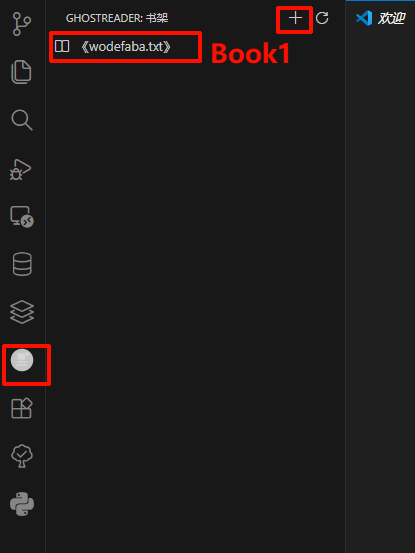
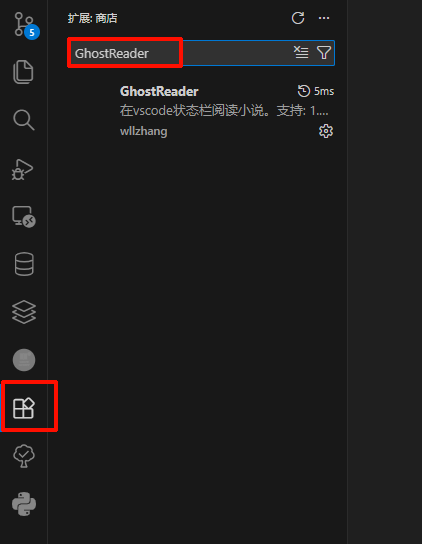
fixed png

diff --git a/README.md b/README.md
@@ -17,185 +17,50 @@
 - 📚 **书架管理** - 轻松导入、删除和管理你的书籍
 - 🔄 **模式切换** - Reading/Coding 模式随时切换，避免快捷键冲突
 - 💾 **进度保存** - 自动保存阅读进度，下次打开继续阅读
-- ⏭ **快速跳转** - 跳转到指定页码继续阅读
 - 🎨 **优雅设计** - 简洁的界面，不打扰你的工作流
-- ⚙ **自定义配置** - 可配置显示行数和自动停止时间
-- ⏰ **自动停止** - 支持设置无操作后自动隐藏阅读内容
 
-## 📦 安装
+## 📦 快速开始
 
-### 从 VSCode 市场安装
+### 安装
 
 1. 打开 VSCode
-2. 按 `Ctrl+P` / `Cmd+P`
-3. 输入 `ext install wllzhang.GhostReader`
-4. 或在扩展面板搜索 "GhostReader"
+2. 按 `Ctrl+P` / `Cmd+P`，输入 `ext install wllzhang.GhostReader`
+3. 或在扩展面板搜索 "GhostReader"
 
-### 从 VSIX 安装
+### 使用
 
-```bash
-code --install-extension GhostReader-2.0.0.vsix
-```
+1. 点击侧边栏的 Ghost READER 图标
+2. 点击 `+` 按钮导入 txt 书籍
+3. 点击书籍开始阅读
+4. 使用 `Ctrl+Left/Right` 翻页（Mac: `Cmd+Left/Right`）
 
-## 🚀 使用指南
+> **注意**: 需要先切换到 **Reading mode** 才能使用快捷键！
 
-### 1. 导入书籍
+## 📚 完整文档
 
-1. 安装成功后，侧边栏会显示插件图标, 点击 `+` 按钮导入 txt 书籍, 点击书架中的书籍开始阅读：
+- 📖 [使用指南](https://wllzhang.github.io/GhostReader/)
+- 🔧 [配置选项](https://wllzhang.github.io/GhostReader/docs/guide/usage)
+- 💻 [API 文档](https://wllzhang.github.io/GhostReader/docs/api)
 
-![Install](./docs/static/install.png)
-
-### 2. 快捷键
-
-| 操作   | Windows      | Mac         |
-| ------ | ------------ | ----------- |
-| 上一页 | `Ctrl+Left`  | `Cmd+Left`  |
-| 下一页 | `Ctrl+Right` | `Cmd+Right` |
-
-**注意**: 需要先切换到 **Reading mode** 才能使用快捷键！
-
-![Install](./docs/static/quickkey.png)
-
-### 3. 状态栏
-
-状态栏有两个模式按钮：
-
-- **📖 Reading mode** - 启用阅读快捷键
-- **💻 Coding mode** - 禁用阅读快捷键（默认）
-
-![Install](./docs/static/status.png)
-
-停止阅读后会自动切换回 `Coding` 模式，避免影响编码工作。
-
-## 🎯 功能说明
-
-- **导入书籍**: 点击侧边栏的 `+` 按钮
-- **删除书籍**: 在书架中右键点击书籍
-- **刷新书架**: 点击刷新按钮同步书籍列表
-- **跳转页码**: 点击状态栏的跳转按钮
-- **开始/停止**: 使用状态栏的播放/停止按钮
-
-## ⚙ 配置选项
-
-GhostReader 支持以下配置项（在 VSCode 设置中搜索 "GhostReader"）：
-
-![Install](./docs/static/args.png)
-
-### 显示行数 (`ghostReader.displayLines`)
-
-设置每次在状态栏显示的行数。
-
-- **默认值**: 1
-- **取值范围**: 1-10
-- **使用场景**: 如果希望一次看到更多内容，可以增加这个值
-
-### 自动停止延迟 (`ghostReader.autoStopDelay`)
-
-设置停留在当前行多少秒后自动停止阅读。
-
-- **默认值**: 0（永不自动停止）
-- **取值范围**: 0 或任意正数（单位：秒）
-- **使用场景**: 设置为 30 表示 30 秒内无操作则自动隐藏阅读内容
-
-**配置示例**:
-
-```json
-{
-  "ghostReader.displayLines": 3,
-  "ghostReader.autoStopDelay": 30
-}
-```
-
-## 📝 支持格式
-
-目前仅支持 `.txt` 格式的文本文件。
-
-建议使用 UTF-8 编码的 txt 文件以获得最佳体验。
-
-## 🛠 开发指南
-
-### 环境要求
-
-- Node.js >= 20.x
-- VSCode >= 1.95.0
-
-### 本地开发
+## 🛠 开发
 
 ```bash
-# 克隆仓库
-git clone https://github.com/wllzhang/GhostReader.git
-cd GhostReader
-
 # 安装依赖
 npm install
 
-# 编译
-npm run compile
-
-# 监听模式
+# 开发模式
 npm run watch
 
-# 构建生产版本
+# 构建
 npm run build
-```
 
-### 调试
-
-1. 按 `F5` 启动调试
-2. 在新窗口测试扩展功能
-3. 使用 `Developer: Reload Window` 重载
-
-### 代码规范
-
-```bash
-# 格式化代码
-npm run format
-
-# 运行 linter
-npm run lint
-
-# 类型检查
-npm run compile
-```
-
-### 打包发布
-
-```bash
-# 打包 VSIX
+# 打包
 npm run package
-
-# 发布到市场
-npm run publish
 ```
-
-## 🏗 技术栈
-
-- **开发语言**: TypeScript 5.7
-- **构建工具**: esbuild
-- **代码规范**: ESLint + Prettier
-- **VSCode API**: ^1.95.0
 
 ## 📄 许可证
 
 [MIT License](LICENSE)
-
-## 🤝 贡献
-
-欢迎贡献代码、报告问题或提出建议！
-
-1. Fork 本仓库
-2. 创建特性分支 (`git checkout -b feature/AmazingFeature`)
-3. 提交更改 (`git commit -m 'Add some AmazingFeature'`)
-4. 推送到分支 (`git push origin feature/AmazingFeature`)
-5. 开启 Pull Request
-
-## 💡 灵感来源
-
-灵感来自工作中偶尔的MO时光 😄
-
-## 🙏 致谢
-
-感谢所有贡献者和使用者的支持！
 
 ---
 
@@ -203,6 +68,6 @@ npm run publish
 
 如果这个项目对你有帮助，请给个 ⭐ Star 支持一下！
 
-[报告问题](https://github.com/wllzhang/GhostReader/issues) · [功能建议](https://github.com/wllzhang/GhostReader/issues)
+[报告问题](https://github.com/wllzhang/GhostReader/issues) · [功能建议](https://github.com/wllzhang/GhostReader/issues) · [完整文档](https://wllzhang.github.io/GhostReader/)
 
 </div>

diff --git a/docs/docs/guide/usage.md b/docs/docs/guide/usage.md
@@ -10,6 +10,8 @@ sidebar_position: 2
 2. 点击书架标题栏的 "+" 按钮
 3. 选择要导入的 TXT 文件
 
+![主界面](/main.png)
+
 ## 开始阅读
 
 点击书架中的书籍即可开始阅读，内容会显示在状态栏中。
@@ -22,9 +24,9 @@ sidebar_position: 2
 
 在 Reading 模式下，以下快捷键可用：
 
-| 快捷键 | 功能 |
-|--------|------|
-| `Ctrl+Left` (Mac: `Cmd+Left`) | 上一行 |
+| 快捷键                          | 功能   |
+| ------------------------------- | ------ |
+| `Ctrl+Left` (Mac: `Cmd+Left`)   | 上一行 |
 | `Ctrl+Right` (Mac: `Cmd+Right`) | 下一行 |
 
 ![快捷键设置](/quickkey.png)
@@ -43,4 +45,3 @@ sidebar_position: 2
 ## 删除书籍
 
 在书架中右键点击书籍，选择删除图标即可移除书籍。
-

diff --git a/docs/docs/guide/installation.md b/docs/docs/guide/installation.md
@@ -11,7 +11,7 @@ sidebar_position: 1
 3. 搜索 "GhostReader"
 4. 点击安装
 
-![安装插件](/install.png)
+![安装插件](/main.png)
 
 ## 从 VSIX 文件安装
 
@@ -21,4 +21,3 @@ sidebar_position: 1
 2. 在 VS Code 中按 `Ctrl+Shift+P`
 3. 输入 "Extensions: Install from VSIX..."
 4. 选择下载的文件
-
